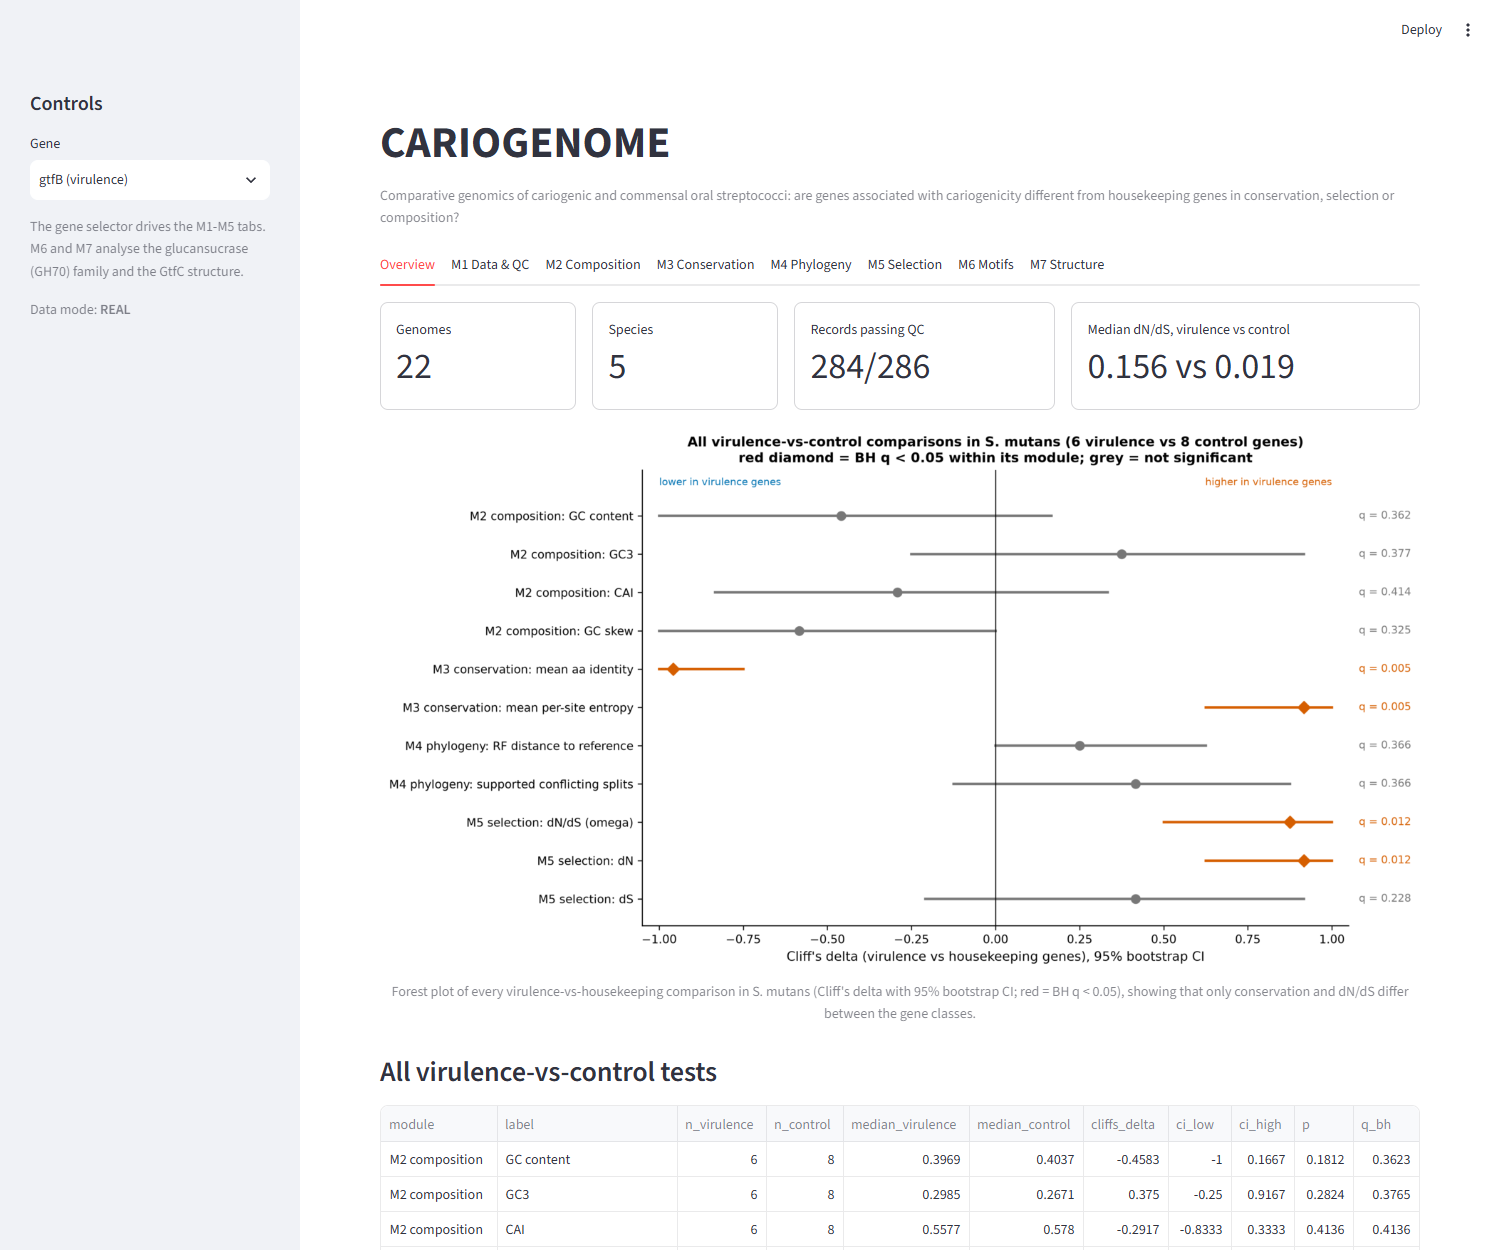
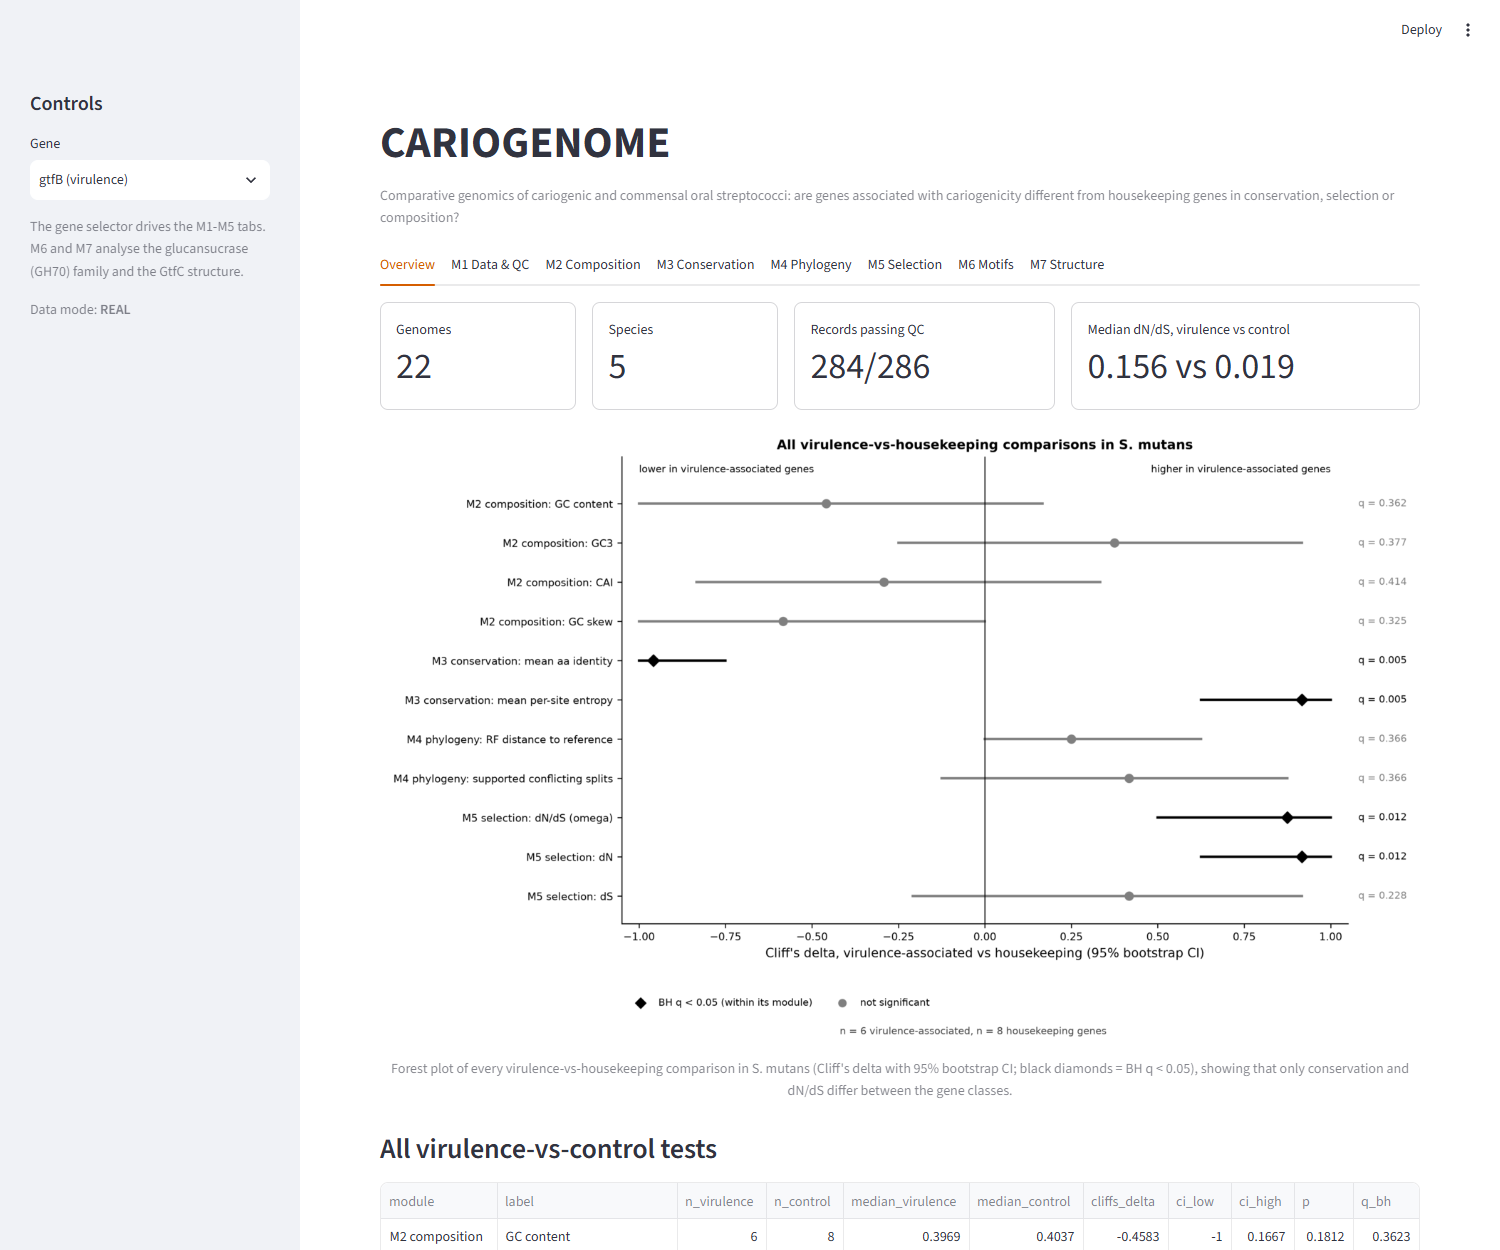
Color dashboard charts by gene class and retake screenshots
- Line charts use the same class colors as the figures
- Identity table formatted to two decimals
- Screenshots retaken at 1500 x 1250
- Path-scan test ignores URLs

diff --git a/app.py b/app.py
@@ -19,7 +19,7 @@ from cariogenome.captions import CAPTIONS
 from cariogenome.config import RESULTS, all_genes, gene_class
 from cariogenome.m4_figures import draw_tree
 from cariogenome.m4_phylogeny import load_tree
-from cariogenome.plotting import W_SINGLE, figure_path
+from cariogenome.plotting import CLASS_COLORS, GREY, W_SINGLE, figure_path
 
 st.set_page_config(page_title="CARIOGENOME", page_icon=":material/biotech:", layout="wide")
 
@@ -28,6 +28,11 @@ st.set_page_config(page_title="CARIOGENOME", page_icon=":material/biotech:", lay
 def csv(name: str, index_col: int | None = None) -> pd.DataFrame:
     """Read one results table (cached)."""
     return pd.read_csv(RESULTS / name, index_col=index_col)
+
+
+def gene_color(gene: str) -> str:
+    """The fixed figure color of a gene's class (16S counts as a control)."""
+    return CLASS_COLORS[gene_class(gene)]
 
 
 def figure(name: str) -> None:
@@ -152,12 +157,19 @@ with tabs[3]:
     cons = csv(f"conservation/{gene}.csv").dropna(subset=["conservation"])
     st.subheader("Per-column conservation (1 - H / log2 K)")
     st.line_chart(
-        cons.set_index("column")["conservation"], x_label="alignment column", y_label="conservation"
+        cons.set_index("column")["conservation"],
+        x_label="alignment column",
+        y_label="conservation",
+        color=gene_color(gene),
     )
     reg = csv("m3_extreme_regions.csv")
     st.dataframe(reg[reg["gene"] == gene], hide_index=True)
     st.subheader("Pairwise percent identity")
-    st.dataframe(csv(f"identity/{gene}.csv", index_col=0).style.background_gradient(cmap="viridis"))
+    st.dataframe(
+        csv(f"identity/{gene}.csv", index_col=0)
+        .style.background_gradient(cmap="viridis")
+        .format("{:.2f}")
+    )
     st.dataframe(csv("m3_tests.csv").round(4), hide_index=True)
     for name in [
         "m3_conservation_summary",
@@ -208,7 +220,9 @@ with tabs[5]:
         win = csv("m5_sliding_windows.csv")
         w = win[win["gene"] == gene].set_index("mid_codon")[["pN", "pS"]]
         st.subheader("Sliding window (60 codons) within S. mutans")
-        st.line_chart(w, x_label="codon position", y_label="p-distance")
+        st.line_chart(
+            w, x_label="codon position", y_label="p-distance", color=[gene_color(gene), GREY]
+        )
     else:
         st.info("dN/dS is defined for protein-coding genes only (16S is a non-coding control).")
     within = csv("m5_dnds_within_species.csv")

diff --git a/tests/test_docs.py b/tests/test_docs.py
@@ -201,6 +201,7 @@ def test_no_absolute_paths_or_home_directories_in_tracked_files() -> None:
         if not p.exists() or p.suffix in (".png", ".gz", ".pkl") or p.stat().st_size > 5e6:
             continue
         text = p.read_text(encoding="utf-8", errors="ignore")
+        text = re.sub(r"https?://\S+", "", text)  # URLs are not local paths
         if pattern.search(text):
             offenders.append(f)
     assert not offenders, f"absolute/home paths in: {offenders}"
